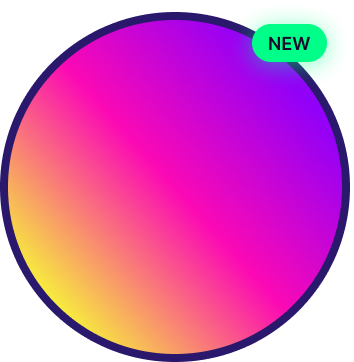
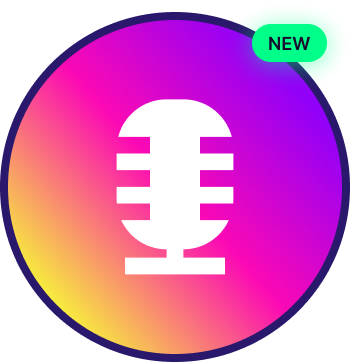
header section responsive for small device

Changed region(s): [[0.3107, 0.2735, 0.6836, 0.7597]]

diff --git a/style.css b/style.css
@@ -18,7 +18,7 @@ navbar design */
     max-width: 1600px;
     background-color: #1A0B2E;
     margin: 0 auto;
-    padding: 24px 200px;
+    padding: 1.5rem 12.5rem;
     border-bottom: 1px solid #412567;
     display: flex;
     align-items: center;
@@ -66,7 +66,7 @@ navbar design */
 
 .hero-section {
     max-width: 1600px;
-    min-height: 760px;
+    height: 760px;
     margin: 0 auto;
     background-image: url(./assets/hero-bg.png);
     background-size: cover;
@@ -77,19 +77,14 @@ navbar design */
 
 .hero-content {
     max-width: 550px;
-    /* height: 558px; */
     margin: 0 auto;
-    /* background-color: red; */
+
 }
 
 .hero-content .circle {
     width: 350px;
     height: 350px;
     border-radius: 50%;
-    background-image: url('./assets/hero-circle.png');
-    display: flex;
-    justify-content: center;
-    align-items: center;
     margin: 0 auto;
     margin-bottom: 40px;
 }
@@ -170,7 +165,6 @@ navbar design */
 /* about section design */
 .about-container {
     max-width: 1600px;
-    /* height: 646px; */
     padding: 50px 200px 120px 200px;
     margin: 0 auto;
     background-color: #1A0B2E;
@@ -208,7 +202,6 @@ navbar design */
 
 .about-cards {
     width: 100%;
-    /* background-color: red; */
     display: flex;
     justify-content: space-between;
 }
@@ -317,7 +310,6 @@ navbar design */
 
 .feature-meet-container {
     max-width: 1600px;
-    /* height: 300px; */
     margin: 0 auto;
     padding: 120px 200px;
     background-color: #1A0B2E;
@@ -399,7 +391,6 @@ navbar design */
 
 .meet-host {
     width: 1200px;
-    /* background-color: red; */
 }
 
 .meet-host>h2 {
@@ -492,7 +483,6 @@ footer .footer-content>img {
 }
 
 footer .footer-content .footer-social {
-    /* width: 544px; */
     height: 24px;
     color: white;
     display: flex;
@@ -513,4 +503,56 @@ footer .footer-content .footer-social div {
 footer .copy-right {
     color: white;
     opacity: 60%;
+}
+
+
+
+/* responsive design  */
+
+@media screen and (max-width: 576px) {
+    .nav-container {
+        width: 100%;
+        padding: 20px;
+    }
+
+    .nav-list,
+    .nav-sub-btn {
+        display: none;
+    }
+
+    .hamburger-icon {
+        display: block;
+    }
+
+    .hamburger-icon img {
+        width: 30px;
+        height: 20px;
+    }
+
+    /* hero section design */
+
+    .hero-section {
+        max-width: 100%;
+        height: 510px;
+        background-image: url(./assets/hero-bg.png);
+        background-size: cover;
+        background-position: center;
+        background-repeat: no-repeat;
+        padding: 60px 20px;
+    }
+
+    .hero-content .circle {
+        width: 200px;
+        height: 200px;
+
+    }
+
+    .hero-content .circle img {
+        width: 100%;
+    }
+
+    .hero-subs-section h2 {
+        font-size: 40px;
+        font-weight: 800;
+    }
 }

diff --git a/index.html b/index.html
@@ -16,7 +16,7 @@
 </head>
 
 <body class="inter-uniquifier">
-    <img src="./assets/new.png" alt="" class="new-icon">
+
     <div class="container">
         <header>
             <nav class="nav-container">
@@ -47,7 +47,7 @@
             <div class="hero-section">
                 <div class="hero-content">
                     <div class="circle">
-                        <img src="./assets/microphone.png" alt="">
+                        <img src="./assets/mic-new.png" alt="">
 
 
                     </div>
